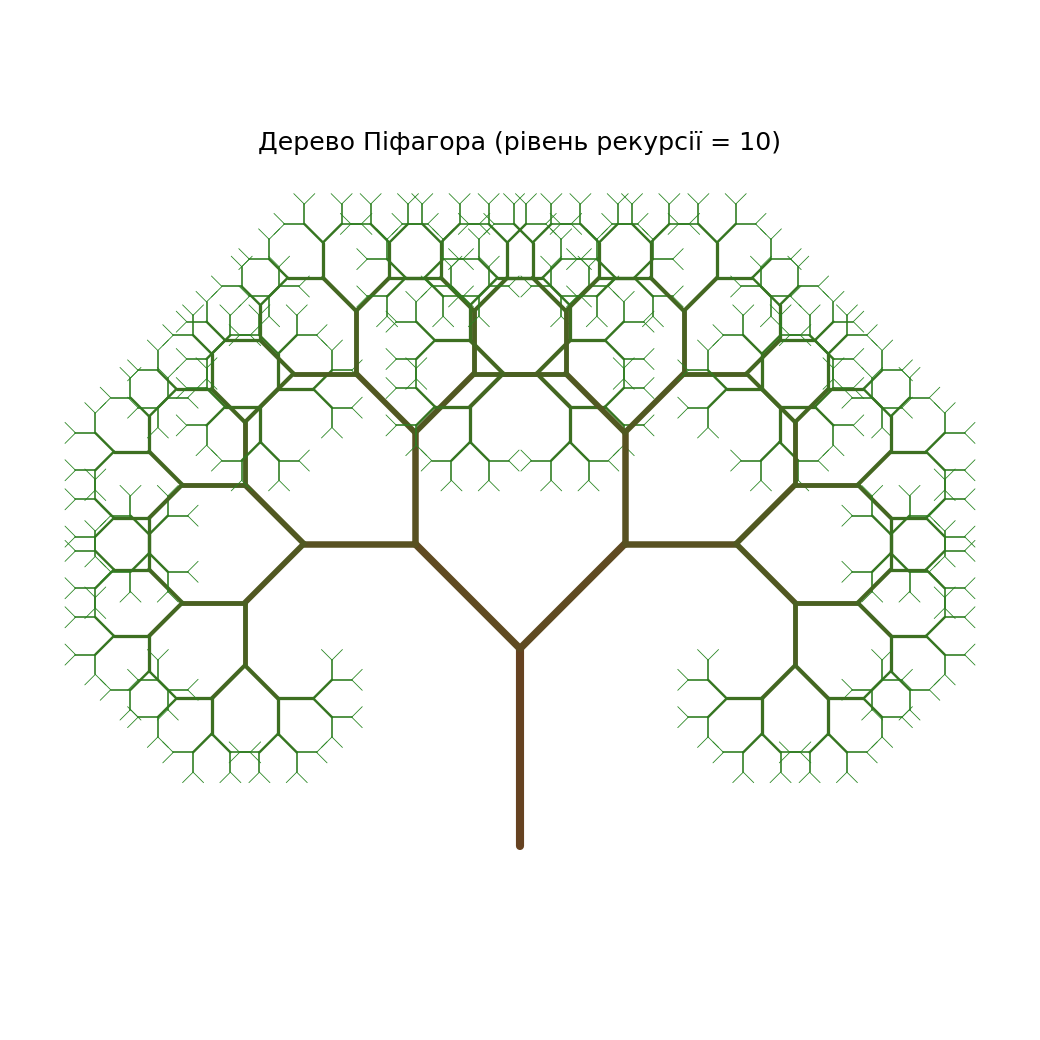
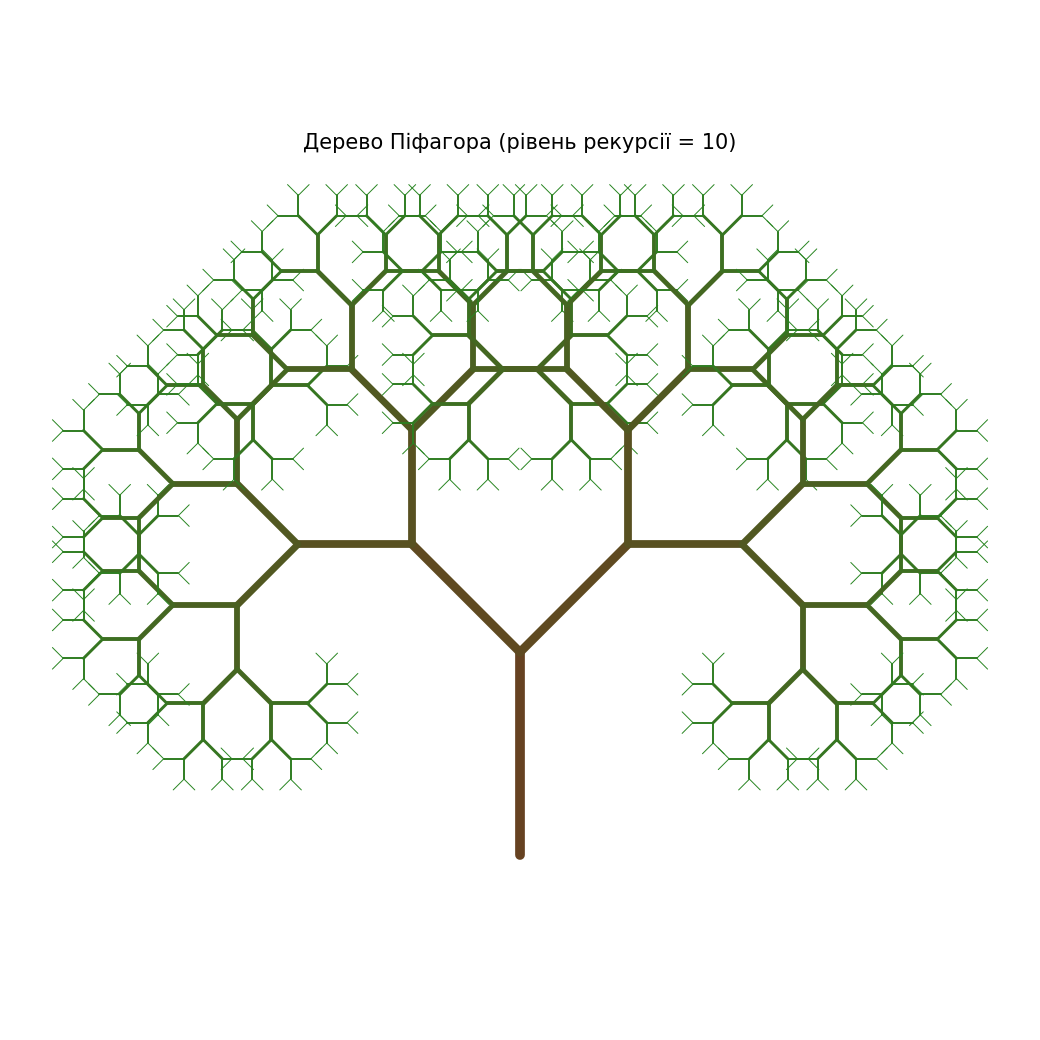
task_2: pythagoras fractal; guard non-positive level; package import; modern typing

diff --git a/task_2/main.py b/task_2/main.py
@@ -1,77 +1,49 @@
 """
-goit-algo-fp / Завдання 2 — Фрактал «дерево Піфагора» (рекурсія + turtle).
+goit-algo-fp / Завдання 2 — Фрактал «дерево Піфагора» (рекурсія).
 
-Користувач задає рівень рекурсії; програма малює дерево Піфагора (гілчастий
-варіант). Довжина гілок скорочується з кожним рівнем, а колір змінюється
-градієнтом від коричневого (стовбур) до зеленого (верхівки).
+Рекурсія `pythagoras_segments` будує геометрію дерева (список відрізків), а
+рендер відокремлений: малювання у turtle чи збереження PNG — у пакеті `viz`
+(`viz/pythagoras.py`). Довжина гілок скорочується з кожним рівнем, а колір і
+товщина задаються на боці рендера за рівнем гілки.
 """
 
-import turtle
-from typing import Tuple
+import argparse
+import math
+from pathlib import Path
+
+from viz.pythagoras import render_turtle, save_png
 
 ANGLE = 45      # кут розгалуження (градуси)
 SHRINK = 0.75   # коефіцієнт скорочення довжини гілки на кожному рівні
 
-
-def _branch_color(order: int, max_order: int) -> Tuple[float, float, float]:
-    """Колір гілки: від коричневого (біля кореня) до зеленого (на верхівках)."""
-    t = 0.0 if max_order <= 0 else 1 - order / max_order
-    brown, green = (0.40, 0.26, 0.13), (0.13, 0.55, 0.13)
-    return tuple(b + (g - b) * t for b, g in zip(brown, green))
+Segment = tuple[float, float, float, float, int]  # (x0, y0, x1, y1, order гілки)
 
 
-def pythagoras_tree(t: "turtle.Turtle", order: int, size: float, max_order: int) -> None:
-    """Рекурсивно малює дерево Піфагора.
+def pythagoras_segments(order: int, size: float,
+                        x: float = 0.0, y: float = 0.0,
+                        heading: float = 90.0) -> list[Segment]:
+    """Рекурсивно будує відрізки дерева Піфагора (без малювання).
 
-    Базовий випадок — `order == 0` (нічого не малюємо). Інакше малюємо гілку
-    завдовжки `size`, далі рекурсивно ліве піддерево (поворот на +ANGLE) і праве
-    (поворот на -ANGLE) з коротшою гілкою `size * SHRINK`.
+    Базовий випадок — `order <= 0` (порожньо). Інакше гілка довжини `size` дає
+    відрізок, а з її кінця рекурсивно ростуть ліва (`heading + ANGLE`) і права
+    (`heading − ANGLE`) гілки довжини `size * SHRINK`. Стартовий напрямок
+    `heading = 90°` — вертикально вгору. Кожен відрізок несе свій `order`, щоб
+    рендер обрав товщину й колір.
     """
-    if order == 0:
-        return
+    segments: list[Segment] = []
 
-    t.width(max(1, order))                 # товщі гілки ближче до кореня
-    t.pencolor(_branch_color(order, max_order))
-    t.forward(size)
+    def grow(order: int, size: float, x: float, y: float, heading: float) -> None:
+        if order <= 0:   # <= (а не ==) робить рекурсію стійкою до від'ємного --level
+            return
+        rad = math.radians(heading)
+        x1 = x + size * math.cos(rad)
+        y1 = y + size * math.sin(rad)
+        segments.append((x, y, x1, y1, order))
+        grow(order - 1, size * SHRINK, x1, y1, heading + ANGLE)   # ліве піддерево
+        grow(order - 1, size * SHRINK, x1, y1, heading - ANGLE)   # праве піддерево
 
-    # Запам'ятовуємо точку розгалуження та поточний напрямок.
-    x, y = t.position()
-    heading = t.heading()
-
-    # Ліве піддерево.
-    t.left(ANGLE)
-    pythagoras_tree(t, order - 1, size * SHRINK, max_order)
-
-    # Повертаємось у точку розгалуження БЕЗ малювання й малюємо праве піддерево.
-    # (penup/goto/pendown — портативна заміна t.teleport, доступного лише з 3.12.)
-    t.penup()
-    t.goto(x, y)
-    t.pendown()
-    t.setheading(heading)
-    t.right(ANGLE)
-    pythagoras_tree(t, order - 1, size * SHRINK, max_order)
-
-
-def draw_pythagoras_tree(order: int, size: float = 120) -> None:
-    """Налаштовує екран turtle і малює дерево заданого рівня рекурсії."""
-    screen = turtle.Screen()
-    screen.setup(width=900, height=800)
-    screen.bgcolor("white")
-    screen.title(f"Дерево Піфагора (рівень рекурсії = {order})")
-    screen.tracer(0)            # вимикаємо покрокову анімацію — миттєве відмалювання
-
-    t = turtle.Turtle()
-    t.hideturtle()
-    t.speed(0)
-    t.penup()
-    t.goto(0, -size * 2.2)      # старт унизу по центру
-    t.setheading(90)            # стовбур росте вертикально вгору
-    t.pendown()
-
-    pythagoras_tree(t, order, size, order)
-
-    screen.update()
-    screen.mainloop()
+    grow(order, size, x, y, heading)
+    return segments
 
 
 def parse_input(user_input: str) -> int:
@@ -83,14 +55,40 @@ def parse_input(user_input: str) -> int:
 
 
 if __name__ == "__main__":
-    while True:
-        try:
-            order = parse_input(input("Введіть рівень рекурсії (рекомендовано 5–12): "))
-            break
-        except ValueError:
-            print("Будь ласка, введіть невід'ємне ціле число.")
+    parser = argparse.ArgumentParser(
+        description="Фрактал «дерево Піфагора»: інтерактивний turtle або PNG-прев'ю."
+    )
+    parser.add_argument(
+        "--save", nargs="?", const="", metavar="PATH",
+        help="зберегти PNG через matplotlib (без turtle-вікна); "
+             "без значення — у tree.png поруч зі скриптом",
+    )
+    parser.add_argument(
+        "--level", type=int, default=10,
+        help="рівень рекурсії для --save (типово 10, як у tree.png)",
+    )
+    args = parser.parse_args()
 
-    if order > 13:
-        print("Увага: великий рівень рекурсії може малюватися повільно.")
+    if args.save is not None:
+        # Неінтерактивний режим: рендеримо PNG з відрізків через matplotlib.
+        order = args.level
+        segments = pythagoras_segments(order, size=1.0)
+        out = args.save or (Path(__file__).parent / "tree.png")
+        save_png(segments, order, out,
+                 title=f"Дерево Піфагора (рівень рекурсії = {order})")
+        print(f"PNG збережено: {out}")
+    else:
+        # Інтерактивний режим: запитуємо рівень рекурсії й малюємо в turtle.
+        while True:
+            try:
+                order = parse_input(input("Введіть рівень рекурсії (рекомендовано 5–12): "))
+                break
+            except ValueError:
+                print("Будь ласка, введіть невід'ємне ціле число.")
 
-    draw_pythagoras_tree(order)
+        if order > 13:
+            print("Увага: великий рівень рекурсії може малюватися повільно.")
+
+        segments = pythagoras_segments(order, size=120.0, y=-120.0 * 2.2)
+        render_turtle(segments, order,
+                      title=f"Дерево Піфагора (рівень рекурсії = {order})")

diff --git a/task_2/README.md b/task_2/README.md
@@ -1,7 +1,8 @@
 # Завдання 2 — Рекурсія: фрактал «дерево Піфагора»
 
-Рекурсивна побудова фрактала **«дерево Піфагора»** (гілчастий варіант) за
-допомогою модуля `turtle`. Користувач задає **рівень рекурсії**.
+Рекурсивна побудова дерева Піфагора (гілчастий варіант). Користувач задає рівень
+рекурсії; гілки коротшають із кожним рівнем, а колір переходить від коричневого
+стовбура до зелених верхівок.
 
 ## Запуск
 
@@ -9,63 +10,36 @@
 python task_2/main.py
 ```
 
-Потрібен лише стандартний модуль `turtle` (для роботи потрібне графічне
-середовище / `tkinter`). Після запуску програма запитає рівень рекурсії й
-відкриє вікно з намальованим деревом.
+Потрібен лише стандартний `turtle` (а отже, графічне середовище / `tkinter`):
+програма запитає рівень рекурсії й відкриє вікно з деревом.
+
+Щоб зберегти прев'ю у PNG без графічного середовища (саме так зроблено `tree.png`):
+
+```bash
+python task_2/main.py --save                 # tree.png, рівень 10
+python task_2/main.py --save out.png --level 8
+```
 
 ## Як це працює
 
-`pythagoras_tree(t, order, size, max_order)` працює рекурсивно:
+Рекурсію відокремлено від малювання. `pythagoras_segments(order, size)` у
+`main.py` повертає список відрізків: на базовому випадку `order <= 0` — нічого
+(умова `<=`, а не `==`, страхує від нескінченної рекурсії на від'ємному рівні),
+інакше гілка довжини `size`, а з її кінця ростуть ліва (`+45°`) і права (`−45°`)
+гілки довжини `size * 0.75`. Обидва піддерева стартують саме з кінця гілки, тож
+координати рахуються напряму через `cos`/`sin`, нічого «відновлювати» не треба.
 
-* **базовий випадок** — `order == 0`: нічого не малюємо й повертаємось;
-* інакше малюємо гілку завдовжки `size`, запам'ятовуємо точку розгалуження,
-  повертаємо черепашку на `+45°` і рекурсивно малюємо **ліве** піддерево, потім
-  повертаємось у точку розгалуження, повертаємось на `-45°` і малюємо **праве**
-  піддерево. Довжина кожної наступної гілки множиться на `0.75`.
+Рендер живе в пакеті `viz` (`viz/pythagoras.py`): `render_turtle` малює відрізки у
+вікні turtle, `save_png` — у PNG через matplotlib. Колір гілки залежить від її
+рівня. Кількість гілок росте як 2ⁿ − 1, тож на рівнях понад 13 малювання помітно
+сповільнюється.
 
-Кількість гілок зростає експоненційно: на рівні `n` їх `2ⁿ − 1`.
-
-## Результат (рівень рекурсії = 10)
+## Результат (рівень 10)
 
 ![Дерево Піфагора](tree.png)
 
-> Зображення-прев'ю відрендерене з тими самими параметрами (кут `45°`,
-> скорочення `0.75`, градієнт кольору), що й turtle-версія у `main.py`.
+PNG і turtle малюють той самий набір відрізків, тому картинка точно відповідає
+коду: кут 45°, скорочення 0.75, той самий градієнт.
 
-## Аналіз рішення
-
-### Сильні сторони
-
-* Рекурсія реалізована правильно: чіткий базовий випадок і два рекурсивні
-  виклики (ліве/праве піддерево) із коротшою гілкою.
-* Слушно збережено стан черепашки (`position()`, `heading()`) і відновлено його
-  перед малюванням правого піддерева — без цього праве піддерево «поїхало б» від
-  кінця лівого.
-* Є можливість задати рівень рекурсії (`parse_input` + `input`), як вимагає
-  завдання.
-
-### Що покращено
-
-1. **Портативність замість `t.teleport`.** Метод `turtle.teleport` з'явився лише
-   у **Python 3.12**, тож на старіших версіях код впав би з `AttributeError`.
-   Замінено на портативну зв'язку `penup() → goto(x, y) → pendown()` — той самий
-   ефект (переміщення без лінії) на будь-якій версії Python.
-2. **Валідація вводу.** Вихідний `parse_input` просто робив `int(...)` і падав на
-   нечисловому вводі. Тепер некоректне значення повторно запитується, а
-   від'ємний рівень відхиляється.
-3. **Миттєве відмалювання.** Додано `screen.tracer(0)` + `screen.update()` — дерево
-   з'являється одразу, без покрокової анімації. Це особливо помітно на високих
-   рівнях рекурсії.
-4. **Градієнт кольору й товщина гілок.** Замість одноколірного дерева гілки
-   фарбуються від коричневого (стовбур) до зеленого (верхівки), а товщина
-   зменшується з рівнем — дерево виглядає природніше.
-5. **Структура.** Параметри `ANGLE` і `SHRINK` винесено в константи; запуск — під
-   `if __name__ == "__main__"`.
-
-### Зауваження
-
-* Це **гілчастий** варіант дерева Піфагора (лінії). Класичний варіант будують із
-  **квадратів**, де кожен квадрат породжує два менші, повернені так, що
-  утворюють прямокутний трикутник, — звідси й назва (теорема Піфагора).
-* На рівнях `> 13` малювання може помітно сповільнитися через експоненційне
-  зростання кількості гілок.
+Це гілчастий варіант (лінії); класичне дерево Піфагора будують із квадратів, де
+кожен породжує два менші на катетах прямокутного трикутника — звідси й назва.